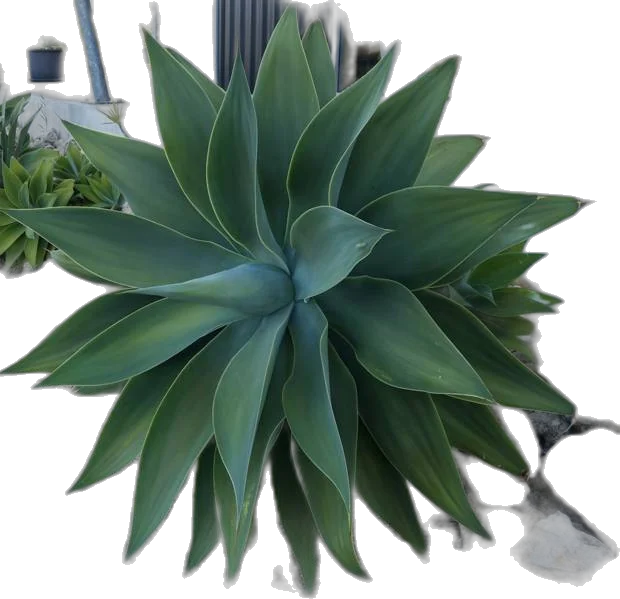
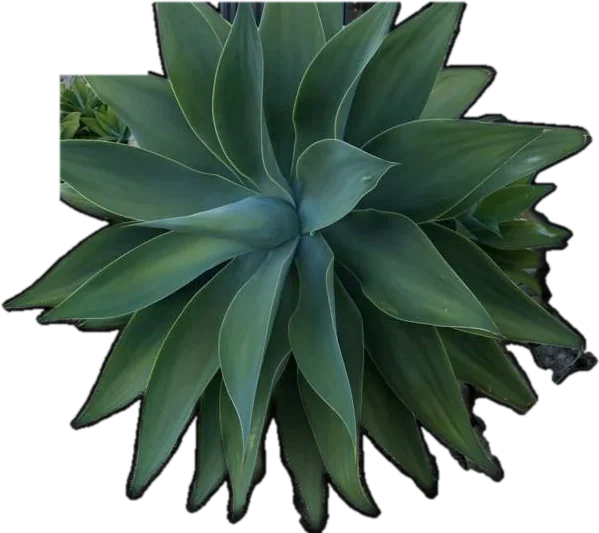
Cleaner turf cutout, drop agave, business name headline

diff --git a/index.html b/index.html
@@ -45,8 +45,7 @@
   <div class="wrap hero-copy">
     <p class="eyebrow" data-en="El Paso, TX · BBB A+ accredited · Since 2023"
                        data-es="El Paso, TX · Acreditados A+ por el BBB · Desde 2023">El Paso, TX · BBB A+ accredited · Since 2023</p>
-    <h1 data-en="Your whole property. One crew."
-        data-es="Toda tu propiedad. Un solo equipo.">Your whole property. One crew.</h1>
+    <h1 aria-label="GreenLife Solutions"><span class="n-green">Green</span><span class="n-blue">Life</span> Solutions</h1>
     <p class="lede" data-en="Turf, patios and pergolas outside. Roofing and AC on top. One call, one team, financing available."
                     data-es="Pasto, patios y pérgolas afuera. Techos y aire acondicionado arriba. Una llamada, un equipo, con financiamiento.">Turf, patios and pergolas outside. Roofing and AC on top. One call, one team, financing available.</p>
     <div class="hero-cta">
@@ -64,8 +63,7 @@
       <img src="assets/w-fence-wall.jpg" alt="Custom wood wall with solar post caps" width="1400" height="1050" loading="eager">
     </figure>
 
-    <img class="cut cut-turf reveal" src="assets/cut-turf.webp" alt="Artificial turf bordered with gravel" width="1300" height="837" fetchpriority="high">
-    <img class="cut cut-agave" data-speed="0.12" src="assets/cut-agave.webp" alt="" width="620" height="599">
+    <img class="cut cut-turf reveal" src="assets/cut-turf.webp" alt="Artificial turf bordered with gravel" width="1300" height="716" fetchpriority="high">
     <img class="cut cut-cactus" data-speed="0.2" src="assets/cut-cactus.webp" alt="" width="161" height="386">
 
     <div class="badge badge-google" data-speed="0.05">

diff --git a/styles.css b/styles.css
@@ -53,6 +53,7 @@ html[lang="es"] .lang-toggle .lang-off{background:var(--blue);color:#fff}
 .hero-copy{position:relative;z-index:3;text-align:center;max-width:820px}
 .eyebrow{font:700 .8rem var(--body);letter-spacing:.14em;text-transform:uppercase;color:var(--green-deep);margin-bottom:1.2rem}
 .hero h1{font-size:clamp(2.6rem,7.4vw,5.6rem);font-weight:800;color:var(--ink)}
+.n-green{color:var(--green)}.n-blue{color:var(--blue)}
 .lede{font-size:clamp(1.02rem,1.6vw,1.22rem);color:var(--muted);max-width:620px;margin:1.2rem auto 1.8rem}
 .hero-cta{display:flex;gap:.8rem;justify-content:center;flex-wrap:wrap}
 
@@ -70,7 +71,6 @@ html[lang="es"] .lang-toggle .lang-off{background:var(--blue);color:#fff}
 
 .cut{position:absolute;height:auto;pointer-events:none;will-change:transform}
 .cut-turf{left:50%;bottom:-2%;translate:-50% 0;width:min(74%,880px);z-index:2;filter:drop-shadow(0 38px 38px rgba(11,27,46,.38))}
-.cut-agave{left:13%;bottom:-6%;width:21%;z-index:3;filter:drop-shadow(0 24px 22px rgba(11,27,46,.35))}
 .cut-cactus{right:15%;bottom:34%;width:7.5%;z-index:3;filter:drop-shadow(0 18px 16px rgba(11,27,46,.3))}
 
 /* strip */
@@ -179,8 +179,7 @@ section{padding-block:clamp(3.5rem,8vw,6.5rem)}
   .brand img{width:104px}
   .header-actions .btn{display:none}
   .cut-turf{width:96%}
-  .cut-agave{left:-2%;width:30%}
-  .cut-cactus{right:3%;bottom:40%;width:11%}
+    .cut-cactus{right:3%;bottom:40%;width:11%}
   .f-pergola{left:-3%;bottom:30%;width:38%}
   .f-fence{right:-3%;bottom:38%;width:36%}
   .badge{padding:.5rem .7rem}.badge strong{font-size:1.3rem}

diff --git a/README.md b/README.md
@@ -32,7 +32,7 @@ Sell the angle: "Your Google listing is 5.0 stars and the Website button goes no
 |---|---|---|
 | w-pergola, w-fence-wall | Pergola going up; wood wall with solar caps | Real (their Facebook) |
 | w-roof-hvac, w-ac-install | Rooftop units (Lennox) on shingle and flat roofs | Real (their Facebook) |
-| cut-turf, w-turf-closeup, cut-agave, cut-cactus, w-patio-kitchen, w-outdoor-kitchen | Turf, desert plants, patio kitchens | **Unsplash stock, noted as stock placeholders in the footer** |
+| cut-turf, w-turf-closeup, cut-cactus, w-patio-kitchen, w-outdoor-kitchen | Turf, desert plants, patio kitchens | **Unsplash stock, noted as stock placeholders in the footer** |
 
 Cut-outs made locally with `rembg` (u2net). `reviews-*.png` (screenshots with reviewer names) are git-ignored.
 Swap stock for their real turf and patio photos when they send some.
